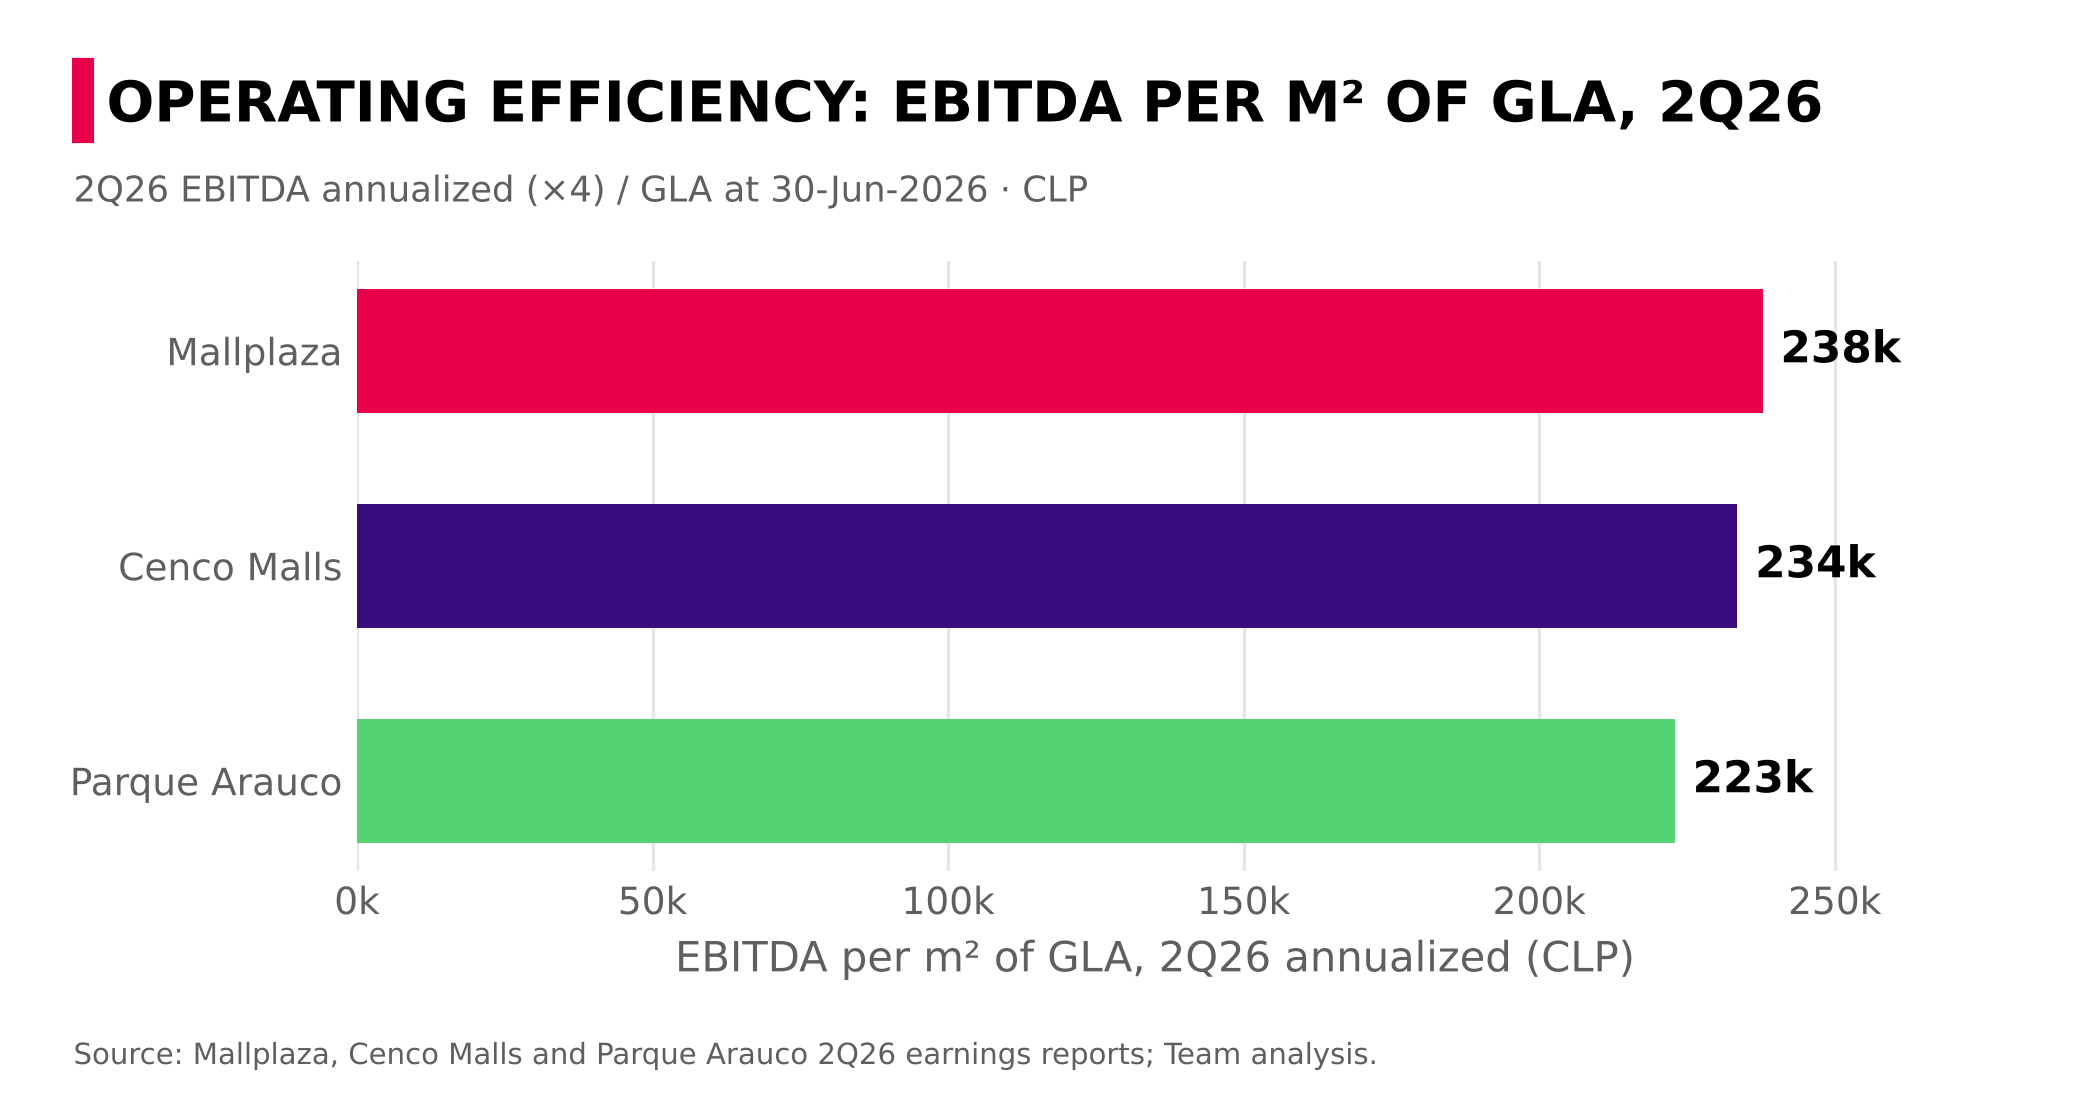
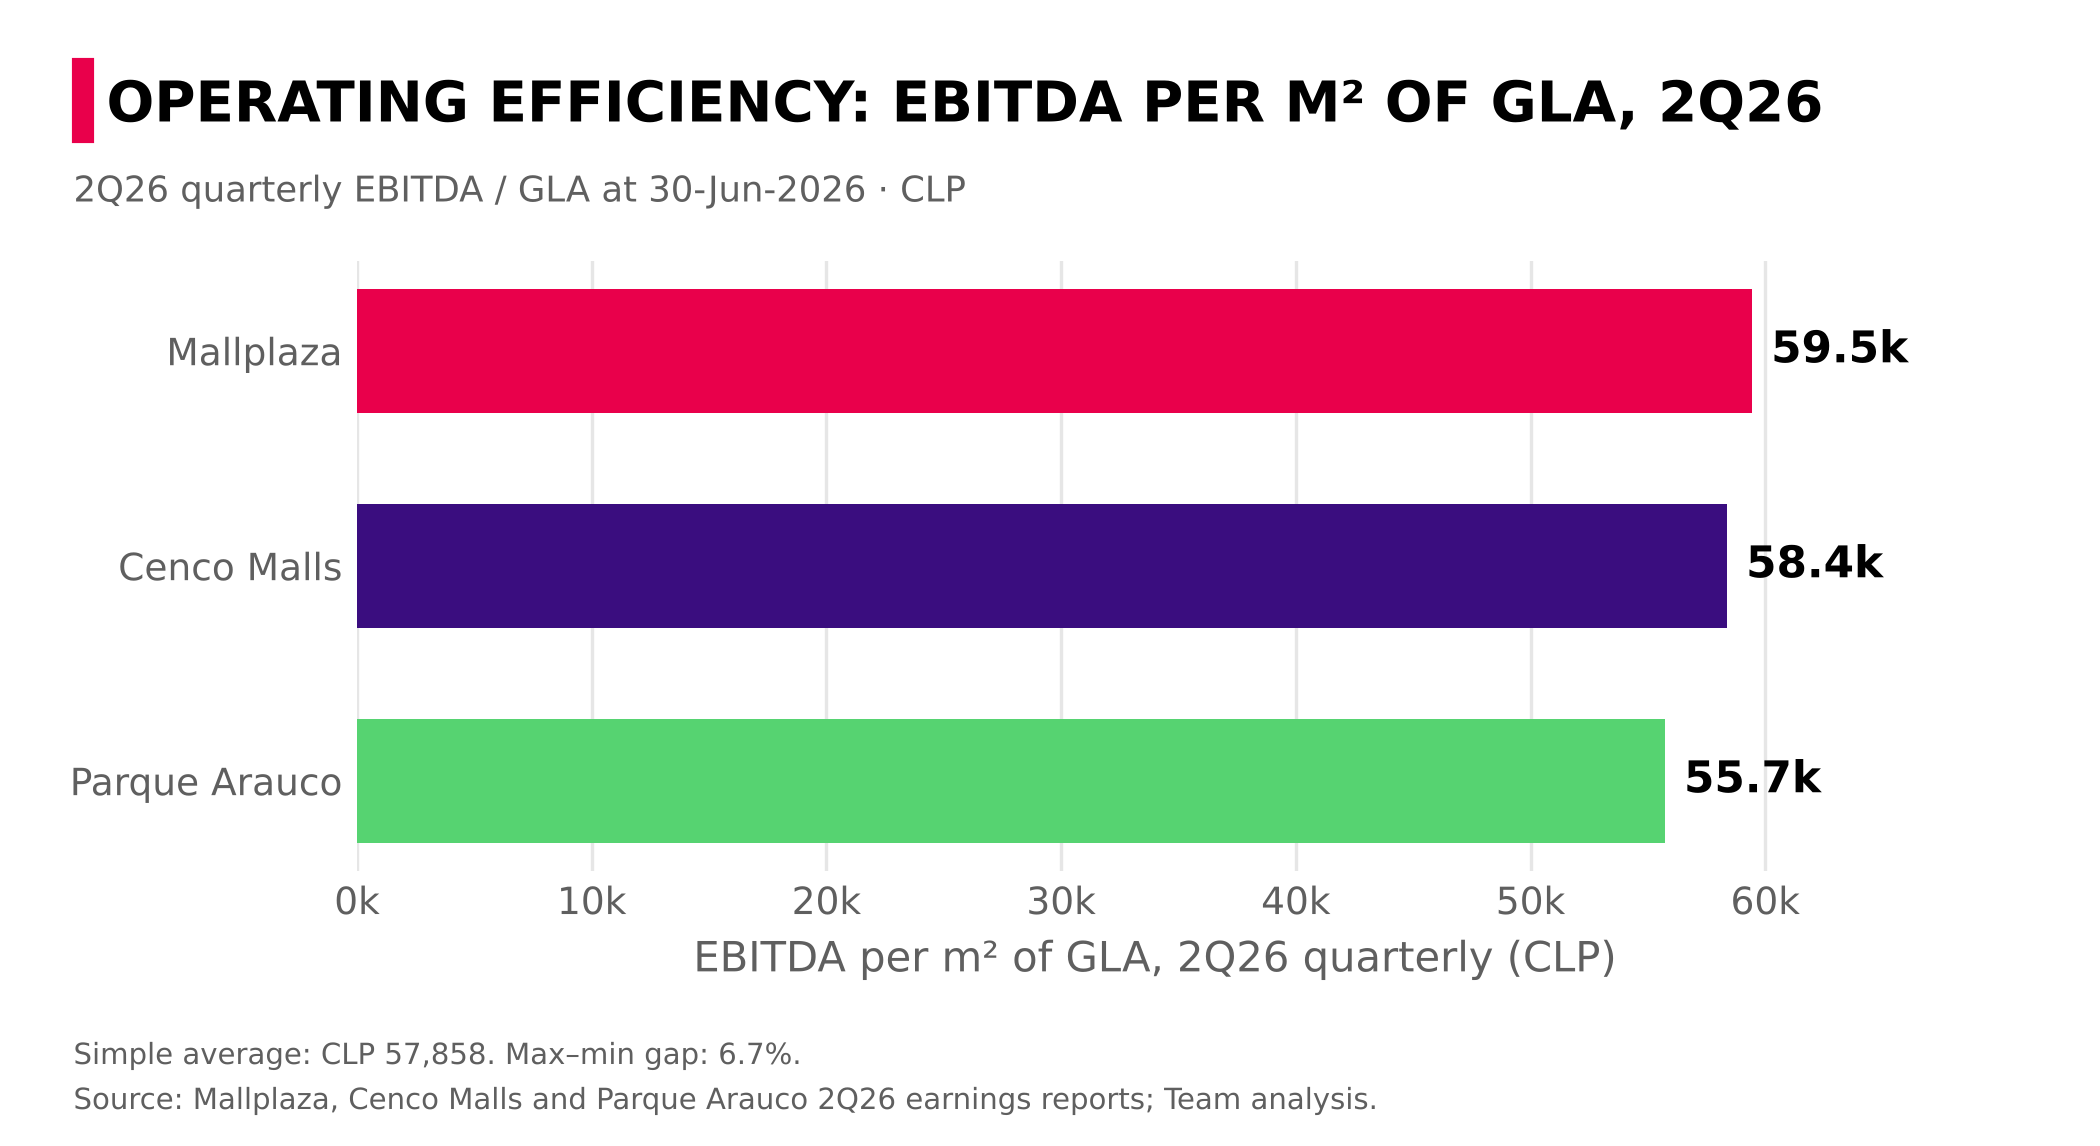
Use quarterly 2Q26 EBITDA per m² in the operating efficiency chart (drop the x4 annualization)
Claude-Session: https://claude.ai/code/session_0188QZHBkA8n5QL7BtmFakQg

diff --git a/graficos/industria.py b/graficos/industria.py
@@ -408,22 +408,26 @@ def market_share_chile(wb, salida):
 # 8. Eficiencia operativa: EBITDA por m² -------------------------------------------------------
 def eficiencia(wb, salida):
     ws = wb["EF. OPERATIVA (CLPM2)"]
-    filas = [(ws.cell(r, 1).value, ws.cell(r, 2).value * 1e6 / ws.cell(r, 3).value * 4)
+    filas = [(ws.cell(r, 1).value, ws.cell(r, 2).value * 1e6 / ws.cell(r, 3).value)  # trimestral
              for r in range(6, 9)]
+    promedio = sum(f[1] for f in filas) / len(filas)
+    brecha = max(f[1] for f in filas) / min(f[1] for f in filas) - 1
+    assert abs(promedio - ws["D9"].value) < 1e-6 and abs(brecha - ws["D10"].value) < 1e-9
     filas.sort(key=lambda f: f[1])
     fig = figura(7, 2.6, "OPERATING EFFICIENCY: EBITDA PER M² OF GLA, 2Q26",
-                 "2Q26 EBITDA annualized (×4) / GLA at 30-Jun-2026 · CLP",
-                 ["Source: Mallplaza, Cenco Malls and Parque Arauco 2Q26 earnings reports; "
+                 "2Q26 quarterly EBITDA / GLA at 30-Jun-2026 · CLP",
+                 [f"Simple average: CLP {promedio:,.0f}. Max–min gap: {brecha:.1%}.",
+                  "Source: Mallplaza, Cenco Malls and Parque Arauco 2Q26 earnings reports; "
                   "Team analysis."])
     ax = fig.add_axes(caja(fig, [0.17, 0.16, 0.76, 0.82]))
     for y, (emp, v) in enumerate(filas):
         ax.barh(y, v / 1000, height=0.58, color=COLOR[emp])
-        ax.text(v / 1000 + 3, y, f"{v / 1000:,.0f}k", va="center", fontsize=10.5,
+        ax.text(v / 1000 + 0.8, y, f"{v / 1000:,.1f}k", va="center", fontsize=10.5,
                 fontweight="bold", color=NEGRO)
     ax.set_yticks(range(len(filas)), [f[0] for f in filas], fontsize=10, color=NEGRO)
-    ax.set_xlim(0, 270)
+    ax.set_xlim(0, 68)
     ax.xaxis.set_major_formatter(lambda v, _: f"{v:,.0f}k")
-    ax.set_xlabel("EBITDA per m² of GLA, 2Q26 annualized (CLP)", color=TINTA_SECUNDARIA)
+    ax.set_xlabel("EBITDA per m² of GLA, 2Q26 quarterly (CLP)", color=TINTA_SECUNDARIA)
     limpiar(ax, grilla="x")
     guardar(fig, salida)
 

diff --git a/graficos/industria/pies_de_figura.md b/graficos/industria/pies_de_figura.md
@@ -10,4 +10,4 @@
 | ind5b_market_share_paises_vertical.png | GLA market share by country, 2Q26 (vertical layout) | Plaza S.A., Institutional Presentation 2Q26, slide 7. |
 | ind6_porter.png | Porter's five forces: shopping centers in Chile, Peru and Colombia | Team analysis (Porter_industria_2Q26). |
 | ind7_market_share_chile.png | Share of Chilean GLA within the trio and trio GLA growth (2Q22 = 100) | 2Q22–2Q26 earnings reports of the three companies; Team analysis. |
-| ind8_ebitda_m2.png | Operating efficiency: EBITDA per m² of GLA, 2Q26 annualized | 2Q26 earnings reports of the three companies; Team analysis. |
+| ind8_ebitda_m2.png | Operating efficiency: EBITDA per m² of GLA, 2Q26 quarterly | 2Q26 earnings reports of the three companies; Team analysis. |
